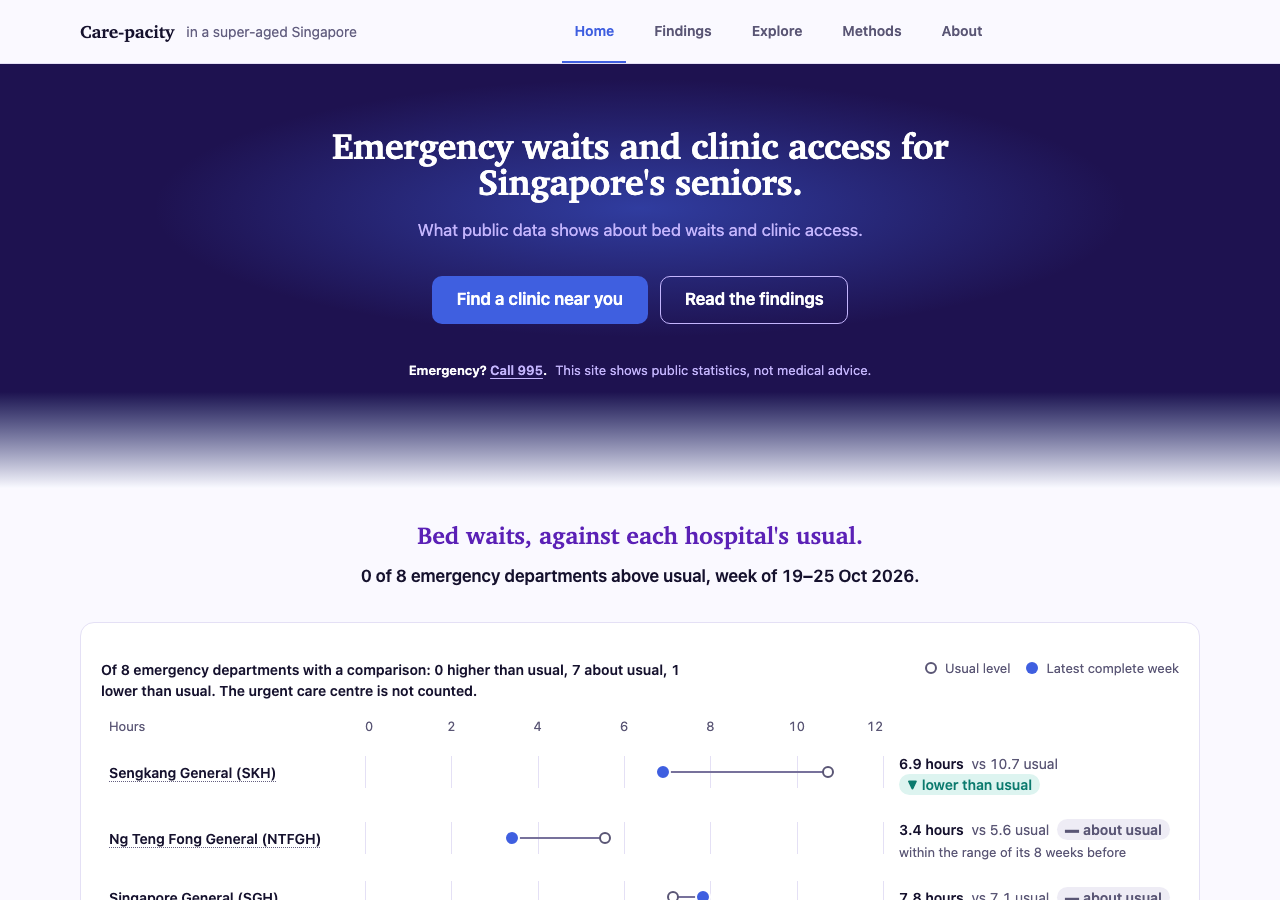
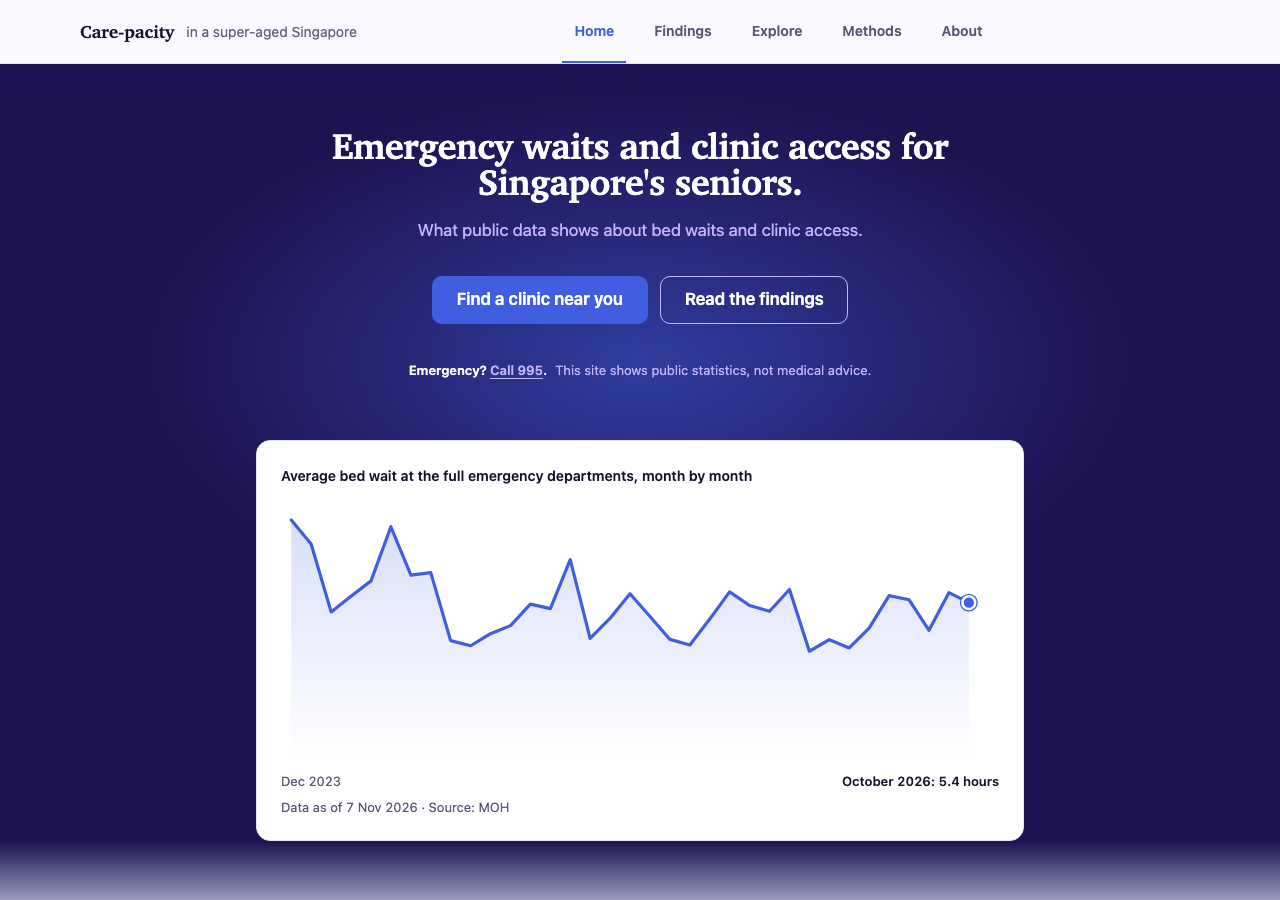
README: everything since the last update, with new screenshots
- Screenshots from release data-2026-11-17 (with the monthly chart): light
  desktop, dark desktop, and a light/dark phone pair.
- Home row: one hour scale, royal-blue latest week, status pills with their
  marks, the 'within its usual range' note, legend ranges that meet and the
  reasons areas aren't ranked.
- New Design section: colour roles, the token file and how it is tested
  (contrast in both themes, colour-blind separation), type, themes, the 995
  line, abbreviations spelled out once.
- 87 data checks on the latest release (was 79); about 2,600 tests in CI by
  suite, plus 100 acceptance checks on real data.
- Tech stack: design tokens; a note on the API's free-plan cold start.
- Documentation: a row for the design tokens.

diff --git a/README.md b/README.md
@@ -5,30 +5,48 @@ the fewest chronic-care clinics? A tested, weekly-updated pipeline, API and webs
 public MOH, data.gov.sg and SingStat data. The site opens on the average bed wait month by month, then
 two pictures, each with a one-line note: each hospital's latest bed wait against its own usual level,
 and clinics per senior by planning area. A separate page finds the nearest polyclinics and GP clinics
-for any postcode.**
+for any postcode. Every figure comes from the latest weekly data release, with its date and source.**
 
 **Live site: [sg-care-capacity-web.vercel.app](https://sg-care-capacity-web.vercel.app/)** ·
 [Case study](https://sg-care-capacity-web.vercel.app/case-study) ·
 [One-page summary](https://sg-care-capacity-web.vercel.app/summary) ·
 [Independent audit](docs/audit_report.md)
 
-[![The landing page: the claim, a "Find a clinic near you" button and a "Read the findings" button on a deep-purple hero with a royal-blue glow, the 995 line, then each hospital's latest bed wait against its usual level on a common hour scale](docs/images/home.png)](https://sg-care-capacity-web.vercel.app/)
+[![The home page in light mode: on a deep-purple hero with a royal-blue glow, the claim, a "Find a clinic near you" button, a "Read the findings" button and the 995 line, then a card with the average bed wait at the full emergency departments month by month, its latest month, date and source](docs/images/home.png)](https://sg-care-capacity-web.vercel.app/)
+
+<p align="center">
+  <img src="docs/images/home-dark.png" width="62%" alt="The same home page in dark mode: the hero and the monthly bed-wait card on a near-black violet page">
+  <img src="docs/images/home-phones.png" width="34%" alt="The home page on a 375 px phone, light and dark side by side: the claim, the two buttons stacked, the 995 line and the monthly card">
+</p>
+
+<sub>Screenshots from data release `data-2026-11-17`. Light and dark follow the device setting.</sub>
 
 ## The site
 
 | Page | What it is for |
 |---|---|
-| **Home** `/` | The claim and two buttons; the average bed wait month by month with three headline figures (when the data release has monthly figures); then two pictures with a short note each: bed waits against each hospital's usual, on one hour scale with status pills, and clinics per 1,000 residents aged 65+ by planning area (plain SVG, no map script). Each has its date and source, a table and CSV/Excel downloads. A "Data and privacy" panel repeats the footer's promise and links to the methods and data quality |
+| **Home** `/` | The claim, two buttons and the 995 line; the average bed wait month by month with three headline figures (when the data release has monthly figures); then two pictures with a short note each. **Bed waits against each hospital's usual**: one hour scale for every hospital, the latest week in royal blue, a status pill (▼ lower, ▬ about usual, ▲ higher, ▲▲ much higher), and a short note when a big move stays inside the hospital's own range of the 8 weeks before. **Clinics per 1,000 residents aged 65+** by planning area (plain SVG, no map script): a legend whose ranges meet with no gap, and why each unranked area isn't ranked. Each picture has its date and source, a table and CSV/Excel downloads. A "Data and privacy" panel repeats the footer's promise and links to the methods and data quality |
 | **Find a clinic** `/find` | A postcode search for the nearest polyclinics, CHAS GP clinics and emergency departments. The search runs in the browser and is never sent to a server. `?view=planner` and `?view=analyst` show the same figures for a planner and an analyst |
 | **Findings** | What the latest data release shows, each finding computed by code and shown with how sure it is |
 | **Explore** | ED trends, the Access Map (3D, 2D and table) and the NUHS live estimates |
 | **Methods, About** | Where each number comes from and what it can't tell you; the case study and the decisions behind the build |
 
-It follows the device's light or dark setting and has no theme switch. There is no red banner: the 995
-emergency number and "not medical advice" share one small line on the home page's first screen, and
-the 995 number is in the footer of every page. Purple, electric violet and royal blue for the brand; status colours (teal lower,
-grey about usual, amber higher, crimson much higher) never use a brand hue, and a status is always
-an arrow and a word as well as a colour. Links underline only their own words.
+### Design
+
+- **Colour.** Purple, electric violet and royal blue, each with one job: royal blue for the main action, the active tab and key
+  data marks; violet for links, focus rings and highlights; deep purple for the hero and, in light mode, headings. Status
+  colours never use a brand hue (teal lower, grey about usual, amber higher, crimson much higher), and a status is always a
+  mark and a word as well as a colour. The access maps use one lavender-to-deep-royal ramp in even steps.
+- **Checked, not eyeballed.** Every colour is a token in [`web/styles/tokens.css`](web/styles/tokens.css). Tests check text
+  at 4.5:1 and graphics at 3:1 on every surface in both themes, and that status, brand and chart colours stay apart under
+  protanopia, deuteranopia and tritanopia simulation.
+- **Type.** Headings in a serif (Charter on Apple devices, Cambria on Windows), text in the device's own interface font. No
+  web font is downloaded, so text never shifts as it loads.
+- **Light and dark** follow the device setting; there is no theme switch. Print is always light.
+- **No alarm.** There is no red banner: the 995 emergency number and "not medical advice" share one small line on the home
+  page's first screen, and the 995 number is in the footer of every page.
+- **Plain words.** Abbreviations are spelled out on first use on each page (never twice), with a definition on hover or tap.
+  Links underline only their own words.
 
 ## What the data shows
 
@@ -58,7 +76,7 @@ flowchart LR
   end
   subgraph Pipeline["Weekly pipeline (GitHub Actions)"]
     RAW[("Raw zone<br/>every file unchanged,<br/>SHA-256 hashed")]
-    DQ{"79 data checks<br/>error = don't publish"}
+    DQ{"87 data checks<br/>error = don't publish"}
     MART["DuckDB marts<br/>+ insight engine"]
   end
   REL[("Data release<br/>GitHub Release,<br/>hash manifest")]
@@ -76,7 +94,7 @@ number with its "Data as of" date and source.
 
 - **Raw zone.** Every downloaded file is kept unchanged, with its SHA-256 hash. Every table can be
   rebuilt offline from these files, and every row records the file it came from.
-- **Data checks that can stop a release.** 79 checks ran on the latest release: units, ranges,
+- **Data checks that can stop a release.** 87 checks ran on the latest release: units, ranges,
   completeness, freshness and reconciliation between sources. A failing error-level check blocks
   publishing, and the site keeps serving the last good release. Bad rows are set aside, never
   corrected.
@@ -88,11 +106,12 @@ number with its "Data as of" date and source.
   to the exact raw cells: 19 matched; the 20th is an external citation. It rebuilt two tables from
   scratch, which matched. It found 1 critical, 1 high and 5 medium issues. All are fixed, each with
   a test ([audit report](docs/audit_report.md)).
-- **Tests on every push.** Over 2,000 automated tests run in CI: about 1,150 website unit tests, about
-  850 browser checks, and the pipeline, API and real-data suites. The browser checks cover every page at
-  1280 and 375 px wide (with overflow checks at 768 and 1440 px), WCAG 2.1 AA accessibility with axe on
-  every page (2.2 AA as well on the home page and the newer pages), and Lighthouse budgets for loading
-  time and layout shift.
+- **Tests on every push.** About 2,600 automated tests run in CI: about 1,200 website unit tests, about
+  850 browser checks, about 380 pipeline tests and about 140 API tests. Another 100 acceptance checks run
+  on the real built data (`make test`). The browser checks cover every page at 1280 and 375 px wide (with
+  overflow checks at 768 and 1440 px), WCAG 2.1 AA accessibility with axe on every page (2.2 AA as well on
+  the home page and the newer pages) in light and dark, and Lighthouse budgets for loading time and layout
+  shift.
 
 ## Tech stack
 
@@ -100,11 +119,15 @@ number with its "Data as of" date and source.
 |---|---|
 | Pipeline | Python 3.12, DuckDB, pandas, geopandas/shapely |
 | API | FastAPI, served from a verified, read-only data release |
-| Website | Next.js (App Router), TypeScript, Tailwind; server-rendered SVG charts and a server-rendered area map on the home page; Leaflet (2D) and three.js (3D) maps on the finder and the Access Map |
+| Website | Next.js (App Router), TypeScript, Tailwind with design tokens (CSS variables) for every colour, size and space; server-rendered SVG charts and a server-rendered area map on the home page; Leaflet (2D) and three.js (3D) maps on the finder and the Access Map |
 | Hosting and automation | GitHub Actions (weekly pipeline, CI), GitHub Releases (data), Render (API), Vercel (website) |
 | Testing | pytest, Vitest, Playwright with axe, Lighthouse CI |
 
 Only aggregate public data is used. There is no personal or patient-level data.
+
+The API runs on Render's free plan, which sleeps after about 15 idle minutes and takes 30 to 60 seconds to wake. The website
+keeps each API response for an hour and refreshes it in the background, so most visits never wait; the first visit after a
+long quiet spell can.
 
 ## Run it locally
 
@@ -142,5 +165,6 @@ make test                                                         # pipeline, AP
 | [Audit report](docs/audit_report.md) | The independent audit and how each finding was resolved |
 | [Decisions](docs/adr/) | Architecture decision records |
 | [Redesign brief](docs/design/redesign_brief.md) and [review](docs/design/review_2026-11-16.md) | The "calm & clear" redesign: principles, measurements before and after, and what is still open |
+| [Design tokens](web/styles/tokens.css) | Every colour, with its role, for light, dark and print; the type scale and spacing |
 | [Pipeline guide](docs/pipeline.md) | Installing and running the pipeline, the raw zone and the history backfill |
 | [Runbook](docs/runbook.md) | Deploying, rolling back a data release, rotating keys, failed runs |
